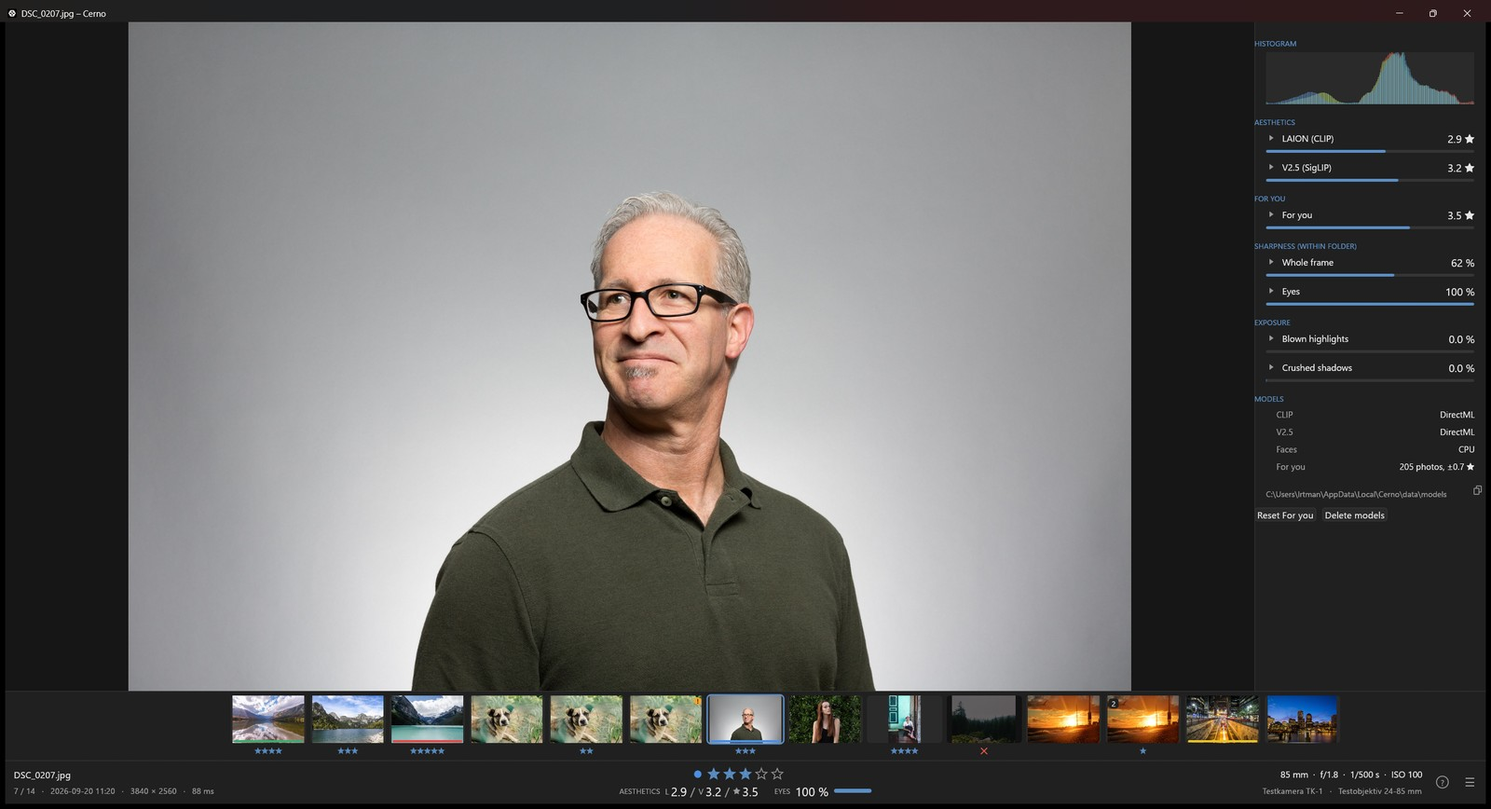
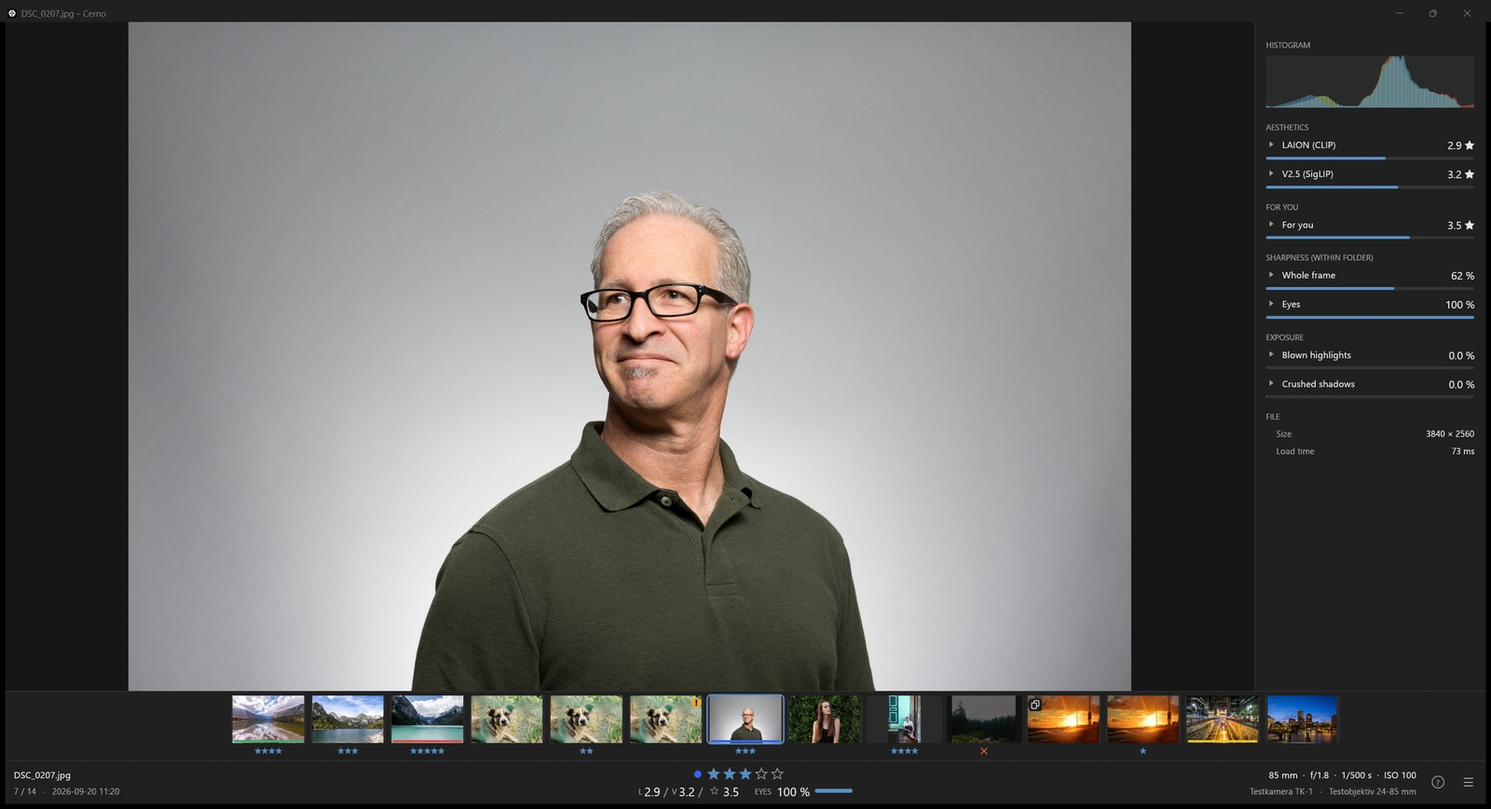
docs: review fixes in CLAUDE.md, changelog and README; release exe
- CLAUDE.md: kept originals and Ctrl+Z as the one exception to "only
  marks are written", duplicate original rule, absolute blur ceiling, no
  system dialogs, T/F keys, the outline star, font tokens and muted
  titles; new modules (backup, edit, transfer, histogram, ui/modal,
  ui/confirm, ui/models, ui/edit); gotchas found on the way (egui areas
  invisible in their first frame, labels in left-to-right layouts never
  wrap, with_maximized on scaled displays).
- CHANGELOG: an Unreleased section for everything since 0.9.0.
- README: keys, Ctrl+Z, models & data, blur rule, and screenshots of the
  current release build.
- Hints stay at least 5 s, so "Original restored" is not missed while the
  photo reloads.
- target/release/cerno.exe rebuilt with --features heic.

Claude-Session: https://claude.ai/code/session_01J3STrighTR1PYtBF8tD5hP

diff --git a/src/app.rs b/src/app.rs
@@ -63,7 +63,7 @@ const LANGUAGE_FADE: Duration = Duration::from_millis(450);
 const CLIP_OFFER_SHOWN: &str = "clip_download_declined";
 
 /// How long a hint stays at least (longer ones a little longer), and how long it fades.
-const NOTICE_TIME: Duration = Duration::from_secs(4);
+const NOTICE_TIME: Duration = Duration::from_secs(5);
 const NOTICE_FADE: Duration = Duration::from_millis(400);
 
 /// A message over the photo. Hints fade on their own; errors stay until Esc or a click;

diff --git a/CLAUDE.md b/CLAUDE.md
@@ -36,6 +36,7 @@ cargo build --release --features heic
 | Pure Rust + egui/eframe (wgpu renderer) instead of Tauri | WebViews can't display HEIC (Rust would have to decode *and* re-encode), WebKitGTK is slow on Linux. Decode once → GPU texture. |
 | Formats: **JPEG + HEIC** | User requirement. HEIC via `libheif-rs` (vcpkg on Windows, system libheif ≥ 1.17 on Linux), behind the `heic` feature. |
 | Only the **rating** and the **colour label** are written into the original file (`xmp:Rating`: 1–5 stars, or **-1 = rejected**; `xmp:Label`: the English names `Red` / `Yellow` / `Green` / `Blue` / `Purple`) | Everything else (scores, thumbnails, CLIP embeddings, capture time) lives in a central SQLite DB under the app data dir – never next to or inside the photos. AI scores never set stars or labels. An unknown label string already in the file is left alone until the user sets a Cerno colour. |
+| The one exception: **straighten, crop and quarter turns** change the file – and **keep the original** | The writer first copies the file into `data/backups` (index table `backups`); without that copy the edit does not happen. `Ctrl+Z` writes the newest copy of the current photo back in place (same file, same dates), then the rating and label the file has now, so later marks stay; pressed again, the copy before. Copies are deleted after 30 days (`backup::KEEP`) and follow a moved photo. Quarter turns only change the EXIF orientation; straighten and crop re-encode at quality 95, 4:4:4. |
 | **File dates must never change** | ExifTool runs with `-P -overwrite_original_in_place`, and `filetimes.rs` snapshots modified/created time before each write and restores them afterwards. |
 | GPU inference must work on **all vendors, AMD has priority** | Windows: ONNX Runtime + DirectML (any DX12 GPU). Linux: CPU, ORT WebGPU (Vulkan) behind the experimental `webgpu` feature. No CUDA/ROCm-only paths. Same model everywhere so scores stay comparable. |
 | Aesthetics = CLIP ViT-L/14 + LAION improved aesthetic predictor | Established, local, 1–10 scale. The LAION MLP has no activations and is collapsed into one linear layer (`tools/make_aesthetic_head.py` → `src/analysis/aesthetic_head.bin`, 3 KB, embedded). The 1.2 GB ONNX vision model is downloaded on request into `%LOCALAPPDATA%\Cerno\data\models` (`~/.local/share/cerno/models`). |
@@ -43,14 +44,16 @@ cargo build --release --features heic
 | Only the **six modules** below, all local | LAION, V2.5, personal taste, CLIP attributes, exposure, eye sharpness. They share the decoded 2048 px image and the stored embeddings; adding a module means a DB column + version constant + `is_complete` check. |
 | For you = ridge regression on the stored CLIP embeddings | Shown as „Für dich“ / “For you” / „Pour vous“ / „Para ti“ / „Per te“, never as taste or aesthetics. The user's stars (1–5) are the labels, deleted photos count as 0 (`feedback` table – the file row is gone, the embedding stays). Trained in the background 2 s after ratings/deletions change, from 15 examples; 5-fold CV picks λ and reports the typical error in stars. AI scores still never set stars. |
 | Eye sharpness via YuNet (OpenCV Zoo, MIT, 230 KB, embedded) | Shallow depth of field: a sharp face in a blurred background would otherwise rank low. When a face ≥ 40 px is found, the "subject" sharpness (info bar, filmstrip marker, Hide blurry, sort) uses the eye percentile instead of the whole-frame one. |
-| Design system `ui_design_system_v1.2.md` (see `../MediaFileRenamer/docs/`) | Dark token *structure*, accent `#5B8EC4`, status colours, Segoe UI loaded from the system (egui's bundled font lacks ← →). **Deliberate deviation: all surfaces are neutral grey** (`#141414`/`#202020`/`#2A2A2A`, canvas `#161616`) instead of the system's blue-grey – tinted chrome around a photo biases colour judgement (Lightroom and Capture One are neutral too). Only accent and status colours carry hue, **plus the five label colours** (a dot in the info bar and a stripe on the filmstrip cell – the photo's own mark, not chrome). Icons (flags, map pin, panel toggles, the palette's check mark) are painted in `ui/icons.rs` / in place – egui has no flag emoji, no Lucide, and Segoe UI lacks ✓. |
+| Design system `ui_design_system_v1.2.md` (see `../MediaFileRenamer/docs/`) | Dark token *structure*, accent `#5B8EC4`, status colours, Segoe UI loaded from the system (egui's bundled font lacks ← →). **Deliberate deviation: all surfaces are neutral grey** (`#141414`/`#202020`/`#2A2A2A`, canvas `#161616`) instead of the system's blue-grey – tinted chrome around a photo biases colour judgement (Lightroom and Capture One are neutral too). Only accent and status colours carry hue, **plus the five label colours** (a dot in the info bar and a stripe on the filmstrip cell – the photo's own mark, not chrome). Icons (flags, map pin, menu ticks and boxes, the blurry mark, the outline star) are painted in `ui/icons.rs` / in place – egui has no flag emoji, no Lucide, and Segoe UI lacks ✓. Font sizes only from `theme::text` (six roles: 11 / 12 / 13 / 15 / 17 / 22). The accent marks selection, interaction and progress only – section titles and the series line are muted. Label blue is `#3366E6` (CIEDE2000 13.5 from the accent). |
 | UI in **German, English, French, Spanish, Italian** | User requirement. Starts in the system language (`sys-locale`, fallback English), `Ctrl+L` cycles, the choice is saved. The flag appears **only while switching** (fade-in); the help header shows the language as a word. Numbers keep the decimal point in every language ("6.1" next to "f/2.8" – a comma would mix notations). |
-| **The info bar always shows**; filter bar, details panel and filmstrip are optional | Default: photo, filmstrip and info bar only. The menu button at the bottom right, and `F` / `Tab` / `F6` (`Shift+Tab` all three), toggle them; states are saved (`top_bar`, `details_mode`, `filmstrip` – the pre-0.8 keys `toolbar`/`details` are ignored so the new default applied once). The filter bar also appears when a filter hides every photo, so the filter can be changed back. |
-| **Keyboard = Lightroom conventions** where Cerno has the same function | `Tab` details panel, `Shift+Tab` all panels, `F` filter bar, `F6` filmstrip, `I` expands or collapses every explanation, `X` = reject (toggles; `Shift+X` rejects and moves on), `6`–`9` = red/yellow/green/blue label (again clears; `Shift+6`–`9` sets and moves on; purple is menu-only), `Delete` = delete, `Shift+0…5` rate and move on, `Z`, `C`, digits as in Lightroom; `F11` fullscreen; `?`/`H`/`F1` help; `Ctrl+K` opens the menu (sort, filter, view, labels, language, auto-advance, subfolders, series, duplicates …) and shows the shortcut on each row; `Ctrl+L` language. `Space` stays "next" and `Backspace` "previous" (Lightroom differs; harmless). Auto-advance is a saved menu switch, not Caps Lock – egui does not expose that key reliably. |
-| Three scores in the info bar, **all on the star scale** | `L 3.4 / V 3.8 / ★ 2.4` – L and V are aesthetics (LAION / V2.5), ★ is **For you** (German „Für dich“: the stars Cerno thinks the user would give). LAION and V2.5 are *displayed* via `aesthetic::as_stars` (2–8 → 0–5, clamped – the range the bars always used); the DB keeps the raw 1–10 scores and sorting is unchanged. For you is its own details section, not grouped under Ästhetik. |
+| **The info bar always shows**; filter bar, details panel and filmstrip are optional | Default: photo, filmstrip and info bar only. The menu (button at the bottom right, `Ctrl+K`) and `T` / `Tab` / `F6` (`Shift+Tab` all three) toggle them; states are saved (`top_bar`, `details_mode`, `filmstrip` – the pre-0.8 keys `toolbar`/`details` are ignored so the new default applied once). The filter bar also appears when a filter hides every photo, so the filter can be changed back. |
+| **Keyboard = Lightroom conventions** where Cerno has the same function | `Tab` details panel, `Shift+Tab` all panels, `T` filter bar (Lightroom's toolbar key), `F` and `F11` full screen, `F6` filmstrip, `I` expands or collapses every explanation, `X` = reject (toggles; `Shift+X` rejects and moves on), `6`–`9` = red/yellow/green/blue label (again clears; `Shift+6`–`9` sets and moves on; purple is menu-only), `Delete` = delete, `Shift+0…5` rate and move on, `Z`, `C`, digits as in Lightroom; `S` straighten, `R` crop, `Ctrl+←/→` quarter turn, `Ctrl+Z` undo an edit; `?`/`H`/`F1` help; `Ctrl+K` opens the menu (view, sort, filter, edit, photo, labels, models & data, language, help) with the shortcut on each row – arrows, Enter, `→`/`←` for submenus, a letter jumps, Esc; `Ctrl+M` the action menu (copy, move, delete what the filter shows); `Ctrl+L` language. `Space` stays "next" and `Backspace` "previous" (Lightroom differs; harmless). Auto-advance is a saved menu switch, not Caps Lock – egui does not expose that key reliably. |
+| Three scores in the info bar, **all on the star scale** | `L 3.4 / V 3.8 / ☆ 2.4`, no group label – L and V are aesthetics (LAION / V2.5), the **outline** star (painted, not a glyph) is **For you** (German „Für dich“: the stars Cerno thinks the user would give); filled stars are only ever the user's own rating. LAION and V2.5 are *displayed* via `aesthetic::as_stars` (2–8 → 0–5, clamped – the range the bars always used); the DB keeps the raw 1–10 scores and sorting is unchanged. For you is its own details section, not grouped under Ästhetik. |
 | **Subfolders stay off** until the user turns them on | A card or a year folder must not be scanned and analysed by accident. The palette command reopens the current folder. Hidden directories (name starts with `.`) are skipped and directory symlinks are not followed. |
 | **Series** are time groups, not collapsed stacks | Consecutive photos at most 2 s apart (`SERIES_GAP_MS`) form a series. Capture-time sort puts the sharpest non-rejected photo first inside the series; "Best of each series" hides the rest, for every sort. Photos without a capture time are never in a series. Two cameras firing together can share a series – there is no camera id in the index yet. |
-| **Duplicates are exact and only marked** | Same fingerprint (FNV-1a of the 256 px thumbnail pixels plus the original size). The first path in folder order is the original; later copies are "duplicate of …". Nothing is rejected or deleted automatically. Near-duplicates (CLIP similarity) are not duplicates. |
+| **Duplicates are exact and only marked** | Same fingerprint (FNV-1a of the 256 px thumbnail pixels plus the original size). The original is the file whose name the others only extend (`IMG_1.jpg` for `IMG_1 - Kopie.jpg` / `IMG_1 (1).jpg`, which sort *before* it), else the only one with stars, a rejection or a label, else the first in folder order (`view::pick_original`); the others are "duplicate of …". Nothing is rejected or deleted automatically. Near-duplicates (CLIP similarity) are not duplicates. |
+| **"Probably blurry"** needs the folder's blurriest 20 % **and** an absolute ceiling | Frame 250, eyes 60 (`view::BLURRY_FRAME_MAX` / `BLURRY_EYES_MAX`): the 10th percentile of the author's index on 2026-09-28. A rank alone warned on every fifth photo even in a folder of sharp ones; the same rule drives the filmstrip mark, the info bar, the details and the "Blurry" filter. |
+| **No system dialogs** except the folder picker | Confirmations (model download, reset For you, delete models) are an in-app card (`ui/confirm.rs`, Enter/Esc). Copy/move of the selection ask nothing (choosing the folder confirms), deleting uses the countdown like `Delete`. The CLIP download is offered as a one-time hint once a folder is open, never as a dialog at start. Hints fade after ~5 s (longer texts a little longer), errors stay until Esc or a click. |
 | Version **0.7.0** is the first numbered one | `Cargo.toml` is the only source; the help page and start screen show `CARGO_PKG_VERSION`. |
 
 ## Architecture
@@ -60,12 +63,16 @@ main.rs              eframe bootstrap (wgpu renderer), CLI path argument
 app.rs               CernoApp: state, keyboard/mouse model, layout, view (sort/filter) management
 view.rs              sorting + filtering, time series and exact duplicates (`View`, pure, unit-tested)
 ui/viewer.rs         fit / zoom / pan geometry and drawing (display texture or full-res tiles)
-ui/filmstrip.rs      thumbnail strip centred on the current photo
-ui/bars.rs           toolbar, two-row info bar (meters, zoom, GPS pin, panel buttons), notices, language flash
-ui/details.rs        side panel with every analysis value; `DetailsMode` off / values / explained; scrolls
-ui/help.rs           help page (`H`/`F1`/`?`, modal foreground area) and the start screen (same content)
-ui/palette.rs        command palette (`Ctrl+K`): accent-insensitive word search, arrows, Enter
-ui/icons.rs          painted flags, map pin, panel and help icons
+ui/filmstrip.rs      thumbnail strip centred on the current photo; marks explained in one tooltip
+ui/bars.rs           filter bar (sort, filter boxes, colour squares, status, Action), two-row info bar (meters, zoom, GPS pin, help and menu), notices, language flash
+ui/details.rs        side panel with the current photo's values (and its size / load time); rows fold open, `I` all; scrolls
+ui/help.rs           help page (`H`/`F1`/`?`, modal foreground area) and the small start screen (five keys, H for the rest)
+ui/palette.rs        the menus: burger (`Ctrl+K`) and action menu (`Ctrl+M`) – groups, switches/choices, keyboard
+ui/modal.rs          card over the dimmed window (height remembered from the last frame)
+ui/confirm.rs        confirmation card (Enter / Esc) instead of system message boxes
+ui/models.rs         "Models & data": model states, models folder, download / reset For you / delete models
+ui/edit.rs           straighten grid, crop frame, banners
+ui/icons.rs          painted flags, map pin, menu, help, copy and warning icons
 ui/stars.rs          star shapes
 i18n/                `Texts` struct (mod.rs) + one full literal per language (de/en/fr/es/it), date and coordinate formatting
 library.rs           folder scan (optional subfolders), supported extensions, natural accent-insensitive order
@@ -80,14 +87,18 @@ analysis/exposure.rs   share of blown highlights / crushed shadows
 analysis/faces.rs      YuNet face detection (CPU, embedded model) + sharpness around the eyes
 analysis/taste.rs      ridge regression (Cholesky, k-fold CV) from embeddings to the user's stars
 thumbs.rs            filmstrip textures from loader / analysis / database
+histogram.rs         RGB histogram of the display image
+edit.rs              straighten / crop geometry and the pixel work that writes a new JPEG
+backup.rs            originals kept before an edit (data/backups, 30 days) for Ctrl+Z
+transfer.rs          copy / move of the photos the filter shows (background thread)
 deletion.rs          delayed deletion queue (countdown, undo, trash worker)
-db.rs                SQLite index: files (path+stamp → fingerprint, rating, label), images (scores, thumbnail, embedding, taken_ms, metadata_version), feedback (deletions), settings; additive migration
+db.rs                SQLite index: files (path+stamp → fingerprint, rating, label), images (scores, thumbnail, embedding, taken_ms, metadata_version), feedback (deletions), backups (kept originals), settings; additive migration
 tools/*.py           one-off model preparation (collapse heads, extract the SigLIP tower, CLIP prompt vectors)
-rating.rs            debounced background writer for marks (rating and colour label), one long-lived ExifTool process (-stay_open)
+rating.rs            debounced background writer for marks (rating and colour label), quarter turns, pixel edits and Ctrl+Z restores; one long-lived ExifTool process (-stay_open)
 exiftool.rs          ExifTool stay-open protocol
 filetimes.rs         snapshot / restore of file timestamps
 paths.rs             data, model and database locations
-theme.rs             design tokens → egui Visuals, system UI font
+theme.rs             design tokens → egui Visuals, `text` font sizes, system UI font
 ```
 
 ### Loader (the speed-critical part)
@@ -106,7 +117,7 @@ theme.rs             design tokens → egui Visuals, system UI font
 - Taste trainer: a separate thread retrains from `Db::taste_examples` 2 s after `taste_changed()` (rating set, deletion carried out). Predictions come from the in-memory embeddings map, so `Analyzer::personal` is cheap per frame.
 - DB migration is additive: `migrate()` reads `PRAGMA table_info` for `images` and `files` and `ALTER TABLE … ADD COLUMN`s what is missing. Never drop or recreate tables – the index holds the user's ratings history and taste feedback.
 - Records are keyed by fingerprint, so renamed files keep their scores. The mark writer updates the file's size in `files` after each write, so our own writes don't trigger re-fingerprinting.
-- `Analyzer::preload` fills the ScoreBoard from the DB when a folder opens, so saved sort/filter settings apply immediately. `ScoreBoard::version` only changes on real changes; the toolbar offers "Refresh order" when scores arrived after the view was built.
+- `Analyzer::preload` fills the ScoreBoard from the DB when a folder opens, so saved sort/filter settings apply immediately. `ScoreBoard::version` only changes on real changes; with a score-dependent sort or filter the filter bar offers "Refresh order" when scores arrived after the view was built. In name order without filters the view rebuilds itself, at most every 2 s (`refresh_marks`) – nothing moves, but duplicate marks and series need the new fingerprints and capture times.
 
 ### Start-up (measured: photo on screen ~330 ms, first frame ~230 ms after `main`)
 
@@ -118,7 +129,7 @@ theme.rs             design tokens → egui Visuals, system UI font
 ### Compare mode and deletion
 
 - `pinned` (a path) is the left photo, `current` the right one; `view::skip_pinned` keeps navigation off the pinned index. The loader keeps the pinned photo cached however far away it is and loads full resolution for both on-screen photos. Both sides share one `Zoom`, so they stay aligned.
-- `A` **rejects** the right photo (next one moves in); `D` rejects the left one and the right photo becomes the new pinned one. Nothing is deleted in compare mode – rejects stay visible (dimmed in the filmstrip) until the palette's "Delete rejected photos (n)" sends them through the normal `DeleteQueue`.
+- `A` **rejects** the right photo (next one moves in); `D` rejects the left one and the right photo becomes the new pinned one. Nothing is deleted in compare mode – rejects stay visible (dimmed in the filmstrip) until the menu's "Delete rejected photos (n)" (Photo) sends them through the normal `DeleteQueue`.
 - `metadata::Rating` (`Unrated` / `Rejected` / `Stars(1..=5)`) is the one rating type everywhere (file, index, session map, view, UI). The index stores the file's value (NULL, -1, 1–5); rejects are taste examples with label 0, like deletions. Sorting by rating puts rejects after unrated photos; filter "Rejected" shows only them.
 - `DeleteQueue`: deleted photos are hidden from the view immediately (`rebuild_view` filters `is_hidden`), each deletion restarts the 5 s countdown, `Esc` cancels the whole queue (Esc priority: deletions → zoom → compare → fullscreen → notice). When it runs out, a worker moves the batch to the trash (`trash` crate); failures reappear with a notice. Photos that really went to the trash are recorded as 0-star taste feedback (`Db::record_deletion`); cancelled ones are not. `on_exit` carries out a pending deletion that wasn't cancelled – after `writer.shutdown()`; keep that order, or a rating flushed on exit would hit a file that is already in the trash.
 
@@ -132,10 +143,10 @@ theme.rs             design tokens → egui Visuals, system UI font
 
 ### Info bar
 
-- Centre: stars, `AESTHETICS L 6.1 / V 6.5 / ★ 2.4` (LAION / V2.5 / personal; the letters are muted `Piece::Prefix`es of one `LayoutJob`, "–" when missing) and the sharpness meter. The centre width is measured from the laid-out meters, so longer labels (French, Italian) push the side columns instead of overlapping them.
-- Right: exposure line (+ EXIF digital zoom) and camera/lens; when they don't fit, whole parts are left out (focal length first, lens first) instead of clipping mid-word. Then the buttons: map pin (only with GPS; opens Google Maps via `ctx.open_url`, i.e. the default browser), help, the three panel toggles (tooltips carry the keys).
-- Left: name (relative, `100CANON/IMG_0001.JPG`, when the file is in a subfolder), position, viewer zoom (while zoomed), capture date, size, decode time. While auto-advance is on, the series position (`Series 3 / 7`) and "duplicate of …" share that line. A colour dot sits just left of the stars.
-- The mouse wheel over the filmstrip steps through the photos (one per notch, touchpads per 50 pt); over the photo it zooms. In capture-time order neighbouring series get a wider gap; the current series has an accent line under its cells. "Best of each series" draws `+n` on the photo that stands for the hidden rest. A duplicate draws a small badge.
+- Centre: stars, `L 6.1 / V 6.5 / ☆ 2.4` (LAION / V2.5 / For you; the letters are muted `Piece::Prefix`es of one `LayoutJob`, "–" when missing; the outline star is painted over a `Piece::Star` placeholder of non-breaking spaces, found with `Galley::pos_from_cursor`) and the sharpness meter. The centre is as wide as its widest variant in the language (`widest_centre`: blurry note, "Eyes"), so the side columns never move while browsing and longer labels (French, Italian) push them instead of overlapping.
+- Right: exposure line (+ EXIF digital zoom) and camera/lens; when they don't fit, whole parts are left out (focal length first, lens first) instead of clipping mid-word. Then the 32 px buttons: map pin (only with GPS; opens Google Maps via `ctx.open_url`, i.e. the default browser), help, menu (tooltips carry the keys).
+- Left: name (relative, `100CANON/IMG_0001.JPG`, when the file is in a subfolder), then position, "Auto advance" while on, viewer zoom (while zoomed), series position (`Series 3 / 7`), "duplicate of …" and the capture date – whole parts are left out from the end when they don't fit (`fit_parts`). Size and load time are in the details panel. A colour dot sits just left of the stars.
+- The mouse wheel over the filmstrip steps through the photos (one per notch, touchpads per 50 pt); over the photo it zooms. In capture-time order neighbouring series get a wider gap; the current series has a muted line under its cells (the accent frame is the current photo alone). "Best of each series" draws `+n` on the photo that stands for the hidden rest. A duplicate draws the copy icon; one tooltip per cell names every mark (blurry, rejected, label, duplicate of).
 
 ### View
 
@@ -147,6 +158,7 @@ theme.rs             design tokens → egui Visuals, system UI font
 
 - `Tab` never reaches egui: `raw_input_hook` removes it and queues it for `handle_keys`. egui would otherwise move keyboard focus to the next widget with `Tab`, and `Space` ("next photo") would then also click that widget.
 - `Shift+digit` and `Shift+6`–`9` are recognised by the **physical** key (`Event::Key::physical_key`): with Shift the logical key is `!`, `"`, `§` … depending on the layout. On German layouts `Shift+0` types `=`, which is also a zoom key – zoom-in is suppressed in a frame with a shifted digit. `6`–`9` use the same physical-key path.
+- `Ctrl+←/→` turn the photo; next/previous ignore Ctrl (they used to step as well, so a following `Ctrl+Z` looked at the neighbour).
 - Texts show modifiers with the language's key names (`i18n::with_ctrl("K")` → `Strg+K` / `Ctrl+K`); help rows are literal per language.
 
 ### Mark writes
@@ -185,11 +197,16 @@ theme.rs             design tokens → egui Visuals, system UI font
 - The index at `%LOCALAPPDATA%\Cerno\data\cerno.db` is the user's live data (ratings history, taste feedback). Never delete it to "start clean" – DB tests use in-memory databases.
 - zune-jpeg decodes truncated JPEGs leniently (missing part grey) instead of failing – intended, other viewers do the same.
 - **HEIC on Windows is dynamically linked** (vcpkg triplet `x64-windows`, `VCPKGRS_DYNAMIC=1` in `.cargo/config.toml`). `libheif` and `libde265` are LGPL-3.0; `build.rs` copies their DLLs and `licenses/` next to the executable. Do not switch the triplet back to `x64-windows-static-md`. The x265 encoder (GPL) stays excluded via `libheif[core]`. Linux links the system libheif; a package depends on the distro library instead of bundling a static copy. ExifTool stays a separate program and is not distributed. The V2.5 head (AGPL-3.0) stays out of the binary.
-- `rfd` dialogs (folder picker, model download confirmation) block the UI thread while open – fine for modal dialogs.
-- Help page and command palette are modal: `handle_keys` returns early while one is open (help: only `H`/`F1`/`?`/`Esc`, `Ctrl+L`, `Ctrl+K`; the palette consumes its own arrows/Enter/Esc before its text field sees them) and the photo's mouse handling is skipped. It is an `egui::Area` in `Order::Foreground`, so the details panel's scroll area below doesn't react either. Its card height is the content height remembered from the previous frame – not `ScrollArea`'s `content_size`, which with `auto_shrink(false)` is at least the visible area.
+- The only `rfd` dialogs left are the folder pickers (open, copy / move target); they block the UI thread while open – fine for modal dialogs. Confirmations are `ui/confirm.rs`.
+- Help page, menus, the models card and confirmations are modal: `handle_keys` returns early while one is open (help: only `H`/`F1`/`?`/`Esc`, `Ctrl+L`, `Ctrl+K`; the menus take arrows, Enter, Esc and typed letters out of the input in `palette::keyboard`; the cards consume Enter/Esc) and the photo's mouse handling is skipped. It is an `egui::Area` in `Order::Foreground`, so the details panel's scroll area below doesn't react either. Its card height is the content height remembered from the previous frame – not `ScrollArea`'s `content_size`, which with `auto_shrink(false)` is at least the visible area.
 - Clicking the map pin sends the photo's coordinates to Google. Don't click it in scripted tests; `metadata::maps_url` is unit-tested.
 - Linux always updates `ctime` on write; that can't be prevented and no photo tool shows it. `mtime` and (on Windows) the creation time are preserved.
 - Because mtime and often the file size (XMP padding) stay the same, backup/sync tools that only compare size + date (e.g. `rsync` without `-c`) may miss rating changes.
 - JPEG decode converts to sRGB once (`decode::to_srgb`): untagged and sRGB stay, Adobe RGB and Display P3 use fixed matrices, anything else goes through moxcms. HEIC is left to libheif. The Windows monitor profile is not applied. Fingerprints change for converted files, so those photos are analysed again; ratings stay.
 - Smoke-testing the window from scripts: send keys with `PostMessage(WM_KEYDOWN/UP)` to Cerno's window handle and capture with `PrintWindow(PW_RENDERFULLCONTENT)`. Posted modifier keys are ignored – winit reads the thread's key state – so for `Ctrl`/`Shift` combos attach to Cerno's UI thread (`AttachThreadInput`), set the modifier in `SetKeyboardState`, post the key, restore the state and detach; this touches only Cerno's input queue, never the user's foreground window. Never use `SendKeys` – without focus it types into whatever window the user is working in. Wait for a window whose title contains "Cerno": `Process.MainWindowHandle` can briefly point at wgpu's untitled helper window.
 - Deletion tests must not touch the real trash: `DeleteQueue` takes a `Remover` function, tests pass a recorder.
+- An `egui::Area` is invisible in its first frame (egui measures it): headless tests of overlays (menus, cards) run two frames before looking at shapes.
+- A label inside a `left_to_right` layout never wraps in egui, whatever the `LayoutJob` says – it widens the parent and pushes right-aligned values out of view. Wrapped text goes into a `top_down` block with `Label::wrap()` (`details::explanation`).
+- `ViewportBuilder::with_maximized(true)` on a scaled Windows display leaves the window flagged as maximized at its restored size, and the first frame's `Maximized(true)` is then a no-op. Only the command is used; the restored window shows for ~13 ms.
+- Posted `WM_KEYDOWN`s also produce text input, so scripted tests can use the menus' letter jump.
+- `Ctrl+Z` restores with `write_in_place` plus a file-time snapshot (like a pixel edit), then writes the marks the file had just before, so a star given after the edit survives the undo.

diff --git a/README.md b/README.md
@@ -52,21 +52,22 @@ Cerno (Latin *cerno* – "I sift, discern, see clearly") is a native Rust deskto
 ## Features
 
 - **Instant switching** – background workers prefetch the photos around the current one, decoded at monitor resolution and uploaded as GPU textures.
-- **Keyboard-first, Lightroom-style keys** – `1`–`5` set stars, `Shift+1`–`5` rate and move on, `0` clears, `X` marks a photo as rejected (written as `xmp:Rating = -1`, nothing is deleted), `6`–`9` set a colour label (red, yellow, green, blue; purple is in the menu). `Ctrl+K` opens the menu at the bottom right – view, sort, filter, edit, photo, colour labels, language and help – with the shortcut shown on each row.
+- **Keyboard-first, Lightroom-style keys** – `1`–`5` set stars, `Shift+1`–`5` rate and move on, `0` clears, `X` marks a photo as rejected (written as `xmp:Rating = -1`, nothing is deleted), `6`–`9` set a colour label (red, yellow, green, blue; purple is in the menu). `Ctrl+K` opens the menu at the bottom right – view, sort, filter, edit, photo, colour labels, models & data, language and help – with the shortcut shown on each row; arrows, `Enter`, `→`/`←` and a letter work in it like anywhere else.
 - **Safe metadata writes** – apart from the EXIF orientation of a 90° turn, the rating and the colour label (`xmp:Label`, English names) are the only metadata Cerno writes, in the background and debounced, in one pass when both change. File modification and creation dates stay bit-exact. Windows Explorer's own rating tags are kept in sync if present.
-- **Straighten, crop, rotate (JPEG)** – `S` straightens over a fine grid (mouse wheel or arrows, `Shift` for finer steps), `R` crops to Original, 3:2, 4:3, 16:9 or 1:1 (`A` changes the ratio, `X` flips landscape/portrait), `Ctrl+←` / `Ctrl+→` rotate by 90° losslessly through the EXIF orientation. `Enter` applies, `Esc` cancels. Straighten and crop re-encode the JPEG (quality 95, no chroma subsampling) into the original file – there is no undo; the file dates stay as they were.
+- **Straighten, crop, rotate (JPEG)** – `S` straightens over a fine grid (mouse wheel or arrows, `Shift` for finer steps), `R` crops to Original, 3:2, 4:3, 16:9 or 1:1 (`A` changes the ratio, `X` flips landscape/portrait), `Ctrl+←` / `Ctrl+→` rotate by 90° losslessly through the EXIF orientation. `Enter` applies, `Esc` cancels. Straighten and crop re-encode the JPEG (quality 95, no chroma subsampling) into the original file; the file dates stay as they were. **Before every edit the original is kept** in Cerno's data folder: `Ctrl+Z` puts it back (with the rating and colour label given since), pressed again the one before. Kept originals are deleted after 30 days.
 - **Zoom** – `Z` or double-click toggles 100 %, mouse wheel zooms around the cursor, drag pans. Full resolution is loaded on demand; zoom and position stay when you switch photos, so a series can be compared at the same spot.
 - **Compare** – `C` pins the current photo on the left, the right side browses the rest. `A` keeps the left one, `D` the right one; the other is marked as rejected and the next photo moves in, so a burst is culled in a few keystrokes. Both sides zoom together. Aesthetics and sharpness sit under each photo. The menu's "Delete rejected photos" sends all rejects to the trash when you are done.
-- **Series and duplicates** – photos shot within two seconds form a series; sorting by capture time puts the sharpest one first, and "Best of each series" hides the rest. Identical copies (same pixels) are marked as duplicates of the first file, never deleted on their own.
+- **Series and duplicates** – photos shot within two seconds form a series; sorting by capture time puts the sharpest one first, and "Best of each series" hides the rest. Identical copies (same pixels) are marked as duplicates – the original is the file the others only extend (`IMG_1.jpg` for `IMG_1 - Kopie.jpg`), else the only rated one, else the first; nothing is deleted on its own.
 - **Folders** – open one folder, or turn on "Include subfolders" to read the tree under it (hidden folders stay out).
 - **Delete without dialogs** – `Delete` hides the photo at once and moves it to the trash after a 5-second countdown; every further deletion restarts it, `Esc` brings all waiting photos back. Nothing blocks meanwhile.
-- **Copy, move or delete what the filter shows** – the filter bar's Action menu (`Ctrl+M`) copies or moves every photo on screen to another folder, or deletes them, after one confirmation. Deleting uses the same countdown.
-- **Filmstrip** – thumbnails with your stars, a colour stripe, a marker for probably blurry shots, and a wider gap between series.
-- **Sharpness, aesthetics and For you** – see [Scores](#scores). Sort by name, capture time, rating, either aesthetics score, For you or sharpness. The filter bar (`F`) keeps sort and filter on one line and combines stars, unrated, rejected, blurry, duplicate copies and the five colour labels; nothing ticked shows every photo.
-- **Details panel** – `Tab` shows every value Cerno measured for the current photo, `I` expands or collapses a short explanation in plain words under each value: both aesthetics scores, For you, whole-frame and eye sharpness, clipped highlights and shadows, CLIP attributes, a histogram and the state of each model. Rows fold open. For you can be reset from here, and the models section shows the folder of the model files with a button that copies the path.
-- **Info bar** – always visible: stars, aesthetics and For you side by side (`L 6.1 / V 6.5 / ★ 2.4` = LAION / V2.5 / For you), sharpness, capture data incl. digital zoom, the current zoom level, and a map pin for photos with GPS coordinates (click opens Google Maps). A menu button at the bottom right (`Ctrl+K`) opens every function; by default only the photo, the filmstrip and the info bar are visible. The filter bar opens with `F`.
+- **Copy, move or delete what the filter shows** – the filter bar's Action menu (`Ctrl+M`) copies or moves every photo on screen to another folder (choosing the folder is the confirmation), or deletes them with the same countdown and `Esc`.
+- **Filmstrip** – thumbnails with your stars, a colour stripe, a marker for probably blurry shots and one for duplicates (each named in the tooltip), and a wider gap between series.
+- **Sharpness, aesthetics and For you** – see [Scores](#scores). Sort by name, capture time, rating, either aesthetics score, For you or sharpness. The filter bar (`T`) keeps sort and filter on one line and combines stars, unrated, rejected, blurry, duplicate copies and the five colour labels; nothing ticked shows every photo.
+- **Details panel** – `Tab` shows every value Cerno measured for the current photo, `I` expands or collapses a short explanation in plain words under each value: both aesthetics scores, For you, whole-frame and eye sharpness, clipped highlights and shadows, CLIP attributes, a histogram, the photo's size and load time. Rows fold open.
+- **Models & data** – from the menu: which model runs where (DirectML = graphics card, CPU), the models folder (copy the path), downloading the aesthetics model, resetting For you and deleting the models. Confirmations are a card in the app (`Enter` / `Esc`), not a system dialog.
+- **Info bar** – always visible: stars, aesthetics and For you side by side (`L 6.1 / V 6.5 / ☆ 2.4` = LAION / V2.5 / For you – the outline star is Cerno's guess, filled stars are your rating), sharpness, capture data incl. digital zoom, the current zoom level, and a map pin for photos with GPS coordinates (click opens Google Maps). A menu button at the bottom right (`Ctrl+K`) opens every function; by default only the photo, the filmstrip and the info bar are visible. The filter bar opens with `T`. Hints fade after a few seconds; errors stay until `Esc` or a click.
 - **Five languages** – German, English, French, Spanish, Italian. Cerno starts in your system language; `Ctrl+L` switches, a flag briefly shows the new one.
-- **Help** – `H`, `F1` or `?` lists all shortcuts with a short explanation; the start screen shows the same page.
+- **Help** – `H`, `F1` or `?` lists all shortcuts with a short explanation; the start screen shows the five keys to begin with.
 - **Capture info** – camera, lens, focal length, aperture, shutter speed, ISO and capture date.
 - **Correct orientation**, natural sort order (`IMG_2` before `IMG_10`, umlauts next to their base letter).
 
@@ -105,17 +106,18 @@ Or drop a folder onto the window / `Ctrl+O`. When moving the binary, keep beside
 | `Z`, double-click | Toggle fit ↔ 100 % |
 | `+` / `-`, mouse wheel | Zoom in / out |
 | Drag | Pan while zoomed |
-| `F` | Toggle the filter bar (sort and filter) |
+| `T` | Toggle the filter bar (sort and filter) |
 | `Tab` | Toggle the details panel (mouse wheel scrolls it) |
 | `I` | Expand or collapse the explanations in the details panel |
 | `F6` | Toggle the filmstrip |
 | `Shift+Tab` | Filter bar, details panel and filmstrip together (the info bar always stays) |
-| `F11` | Toggle fullscreen |
+| `F`, `F11` | Toggle full screen |
 | `S` | Straighten (JPEG): mouse wheel or arrows rotate, `Shift` is finer |
 | `R` | Crop (JPEG): draw a frame, `A` changes the ratio, `X` flips landscape/portrait |
 | `Ctrl+←` / `Ctrl+→` | Rotate 90° – lossless, via the EXIF orientation |
 | `Enter` / `Esc` | Apply / cancel straighten or crop |
-| `Ctrl+K` | Menu: view, sort, filter, edit, photo, colour labels, language, help |
+| `Ctrl+Z` | Undo the last straighten, crop or quarter turn of the current photo (the original is kept for 30 days) |
+| `Ctrl+K` | Menu: view, sort, filter, edit, photo, colour labels, models & data, language, help – arrows, `Enter`, `→`/`←`, a letter jumps |
 | `Ctrl+M` | Action menu: copy, move or delete the photos on screen |
 | `Ctrl+L` | Switch language (DE → EN → FR → ES → IT) |
 | `H` / `F1` / `?` | Help page with all shortcuts |
@@ -128,8 +130,8 @@ Or drop a folder onto the window / `Ctrl+O`. When moving the binary, keep beside
 
 Background analysis (nearest first) is stored in `%LOCALAPPDATA%\Cerno\data\cerno.db` (Linux: `~/.local/share/cerno/cerno.db`); models under `…/models`. Scores never set your stars.
 
-- **Sharpness** – Laplacian on the sharpest tiles; folder percentile; optional eye sharpness via built-in [YuNet](https://github.com/opencv/opencv_zoo/tree/main/models/face_detection_yunet).
-- **Aesthetics** – LAION (CLIP, ~1.2 GB – offered once at start, or "Enable aesthetics…" in the menu and the filter bar) and optional V2.5 (SigLIP files in the models folder; AGPL head not bundled). Shown as stars 0–5 (`L … / V … / ★ …`).
+- **Sharpness** – Laplacian on the sharpest tiles; folder percentile; optional eye sharpness via built-in [YuNet](https://github.com/opencv/opencv_zoo/tree/main/models/face_detection_yunet). "Probably blurry" means among the blurriest 20 % of the folder **and** below a fixed ceiling, so a folder of sharp photos gets no warnings.
+- **Aesthetics** – LAION (CLIP, ~1.2 GB – a one-time hint once a folder is open; download from "Models & data", "Enable aesthetics…" in the menu or the filter bar) and optional V2.5 (SigLIP files in the models folder; AGPL head not bundled). Shown as stars 0–5 (`L … / V … / ☆ …`).
 - **For you** – ridge regression on your ratings and deletions (from 15 examples). The stars Cerno thinks you would give; not an aesthetics score.
 - **Exposure & CLIP attributes** – blown/crushed pixels; zero-shot quality cues 0–100 %.
 

diff --git a/CHANGELOG.md b/CHANGELOG.md
@@ -5,6 +5,38 @@ Format follows [Keep a Changelog](https://keepachangelog.com/en/1.0.0/), version
 
 ---
 
+## [Unreleased]
+
+### Added
+
+- Straighten (`S`, fine grid, wheel or arrows, `Shift` finer) and crop (`R`: Original, 3:2, 4:3, 16:9, 1:1; `A` changes the ratio, `X` flips) for JPEGs, `Ctrl+←` / `Ctrl+→` for lossless quarter turns via the EXIF orientation. `Enter` applies, `Esc` cancels.
+- **Originals are kept**: before any of these edits the file is copied into Cerno's data folder (`backups`), and `Ctrl+Z` (also Edit › Undo) writes the newest copy of the current photo back – same file, same dates, with the rating and colour label given since. Copies are deleted after 30 days.
+- Action menu (`Ctrl+M`, "Action" in the filter bar): copy or move every photo the filter shows to another folder, or delete them with the usual countdown.
+- "Models & data" in the menu: where each model runs, the models folder, download, reset For you and delete the models – no longer part of the details panel.
+- Colour labels are part of the filter (small squares in the filter bar, rows with a colour dot in the menu); "Show all" resets them too.
+- The details panel shows the photo's size and load time.
+- JPEGs are converted to sRGB on decode (Adobe RGB, Display P3 by a fixed matrix, other profiles through a colour engine).
+
+### Changed
+
+- The burger menu is grouped (view, sort, filter, edit, photo, colour labels, models & data, language, help) and fully keyboard-operated: arrows, `Enter`, `→`/`←` for submenus, a letter jumps, `Esc` closes the submenu first. Switches show a box, choices a tick; long rows end in "…".
+- Keys: `F` and `F11` full screen, `T` the filter bar (Lightroom: F full screen, T toolbar). "Sort and filter" is called "Filter bar" everywhere.
+- Info bar: `L / V / ☆` without the "Aesthetics" label – For you has an outline star, filled stars are only your rating. Size and load time left for the details panel; parts that don't fit are left out whole, and the side columns no longer move while browsing. Buttons are 32 px.
+- Filter bar: one line; the status only shows while something needs attention (analysis running, model missing, loading or failed); hidden boxes fade at the edge.
+- "Probably blurry" needs the folder's blurriest 20 % **and** an absolute ceiling, so a folder of sharp photos gets no warnings. The filmstrip mark is a painted icon; every mark of a cell is named in its tooltip.
+- Duplicates: the original is the file whose name the others extend ("IMG_1.jpg" for "IMG_1 - Kopie.jpg"), else the only marked one, else the first in folder order. Before, the copy often counted as the original.
+- No system dialogs apart from the folder picker: an in-app card confirms the model download, resetting For you and deleting the models; copy, move and delete of the selection ask nothing (the folder choice or the countdown is the confirmation). No download dialog at start – a one-time hint once a folder is open.
+- Hints fade after about 5 s; errors stay until `Esc` or a click.
+- The start screen is a small card with the five keys to begin with; `H` shows the full help (with its own "Edit" section), also over the start screen.
+- Six font sizes instead of fifteen; section titles and the series line are muted, the accent marks the current photo and interaction only; label blue is clearly different from the accent.
+
+### Fixed
+
+- The explanations in the details panel (`I`) wrap inside the panel; before, they ran out of it and pushed every value out of view.
+- The window fills the screen at start (it stayed at its restored size while flagged as maximized on scaled displays).
+- `Ctrl+←` / `Ctrl+→` no longer also step to the neighbouring photo.
+- In name order without filters, duplicate marks and series appear as the analysis finds them, not only after sorting or filtering.
+
 ## [0.9.0] – 2026-09-28
 
 ### Added
